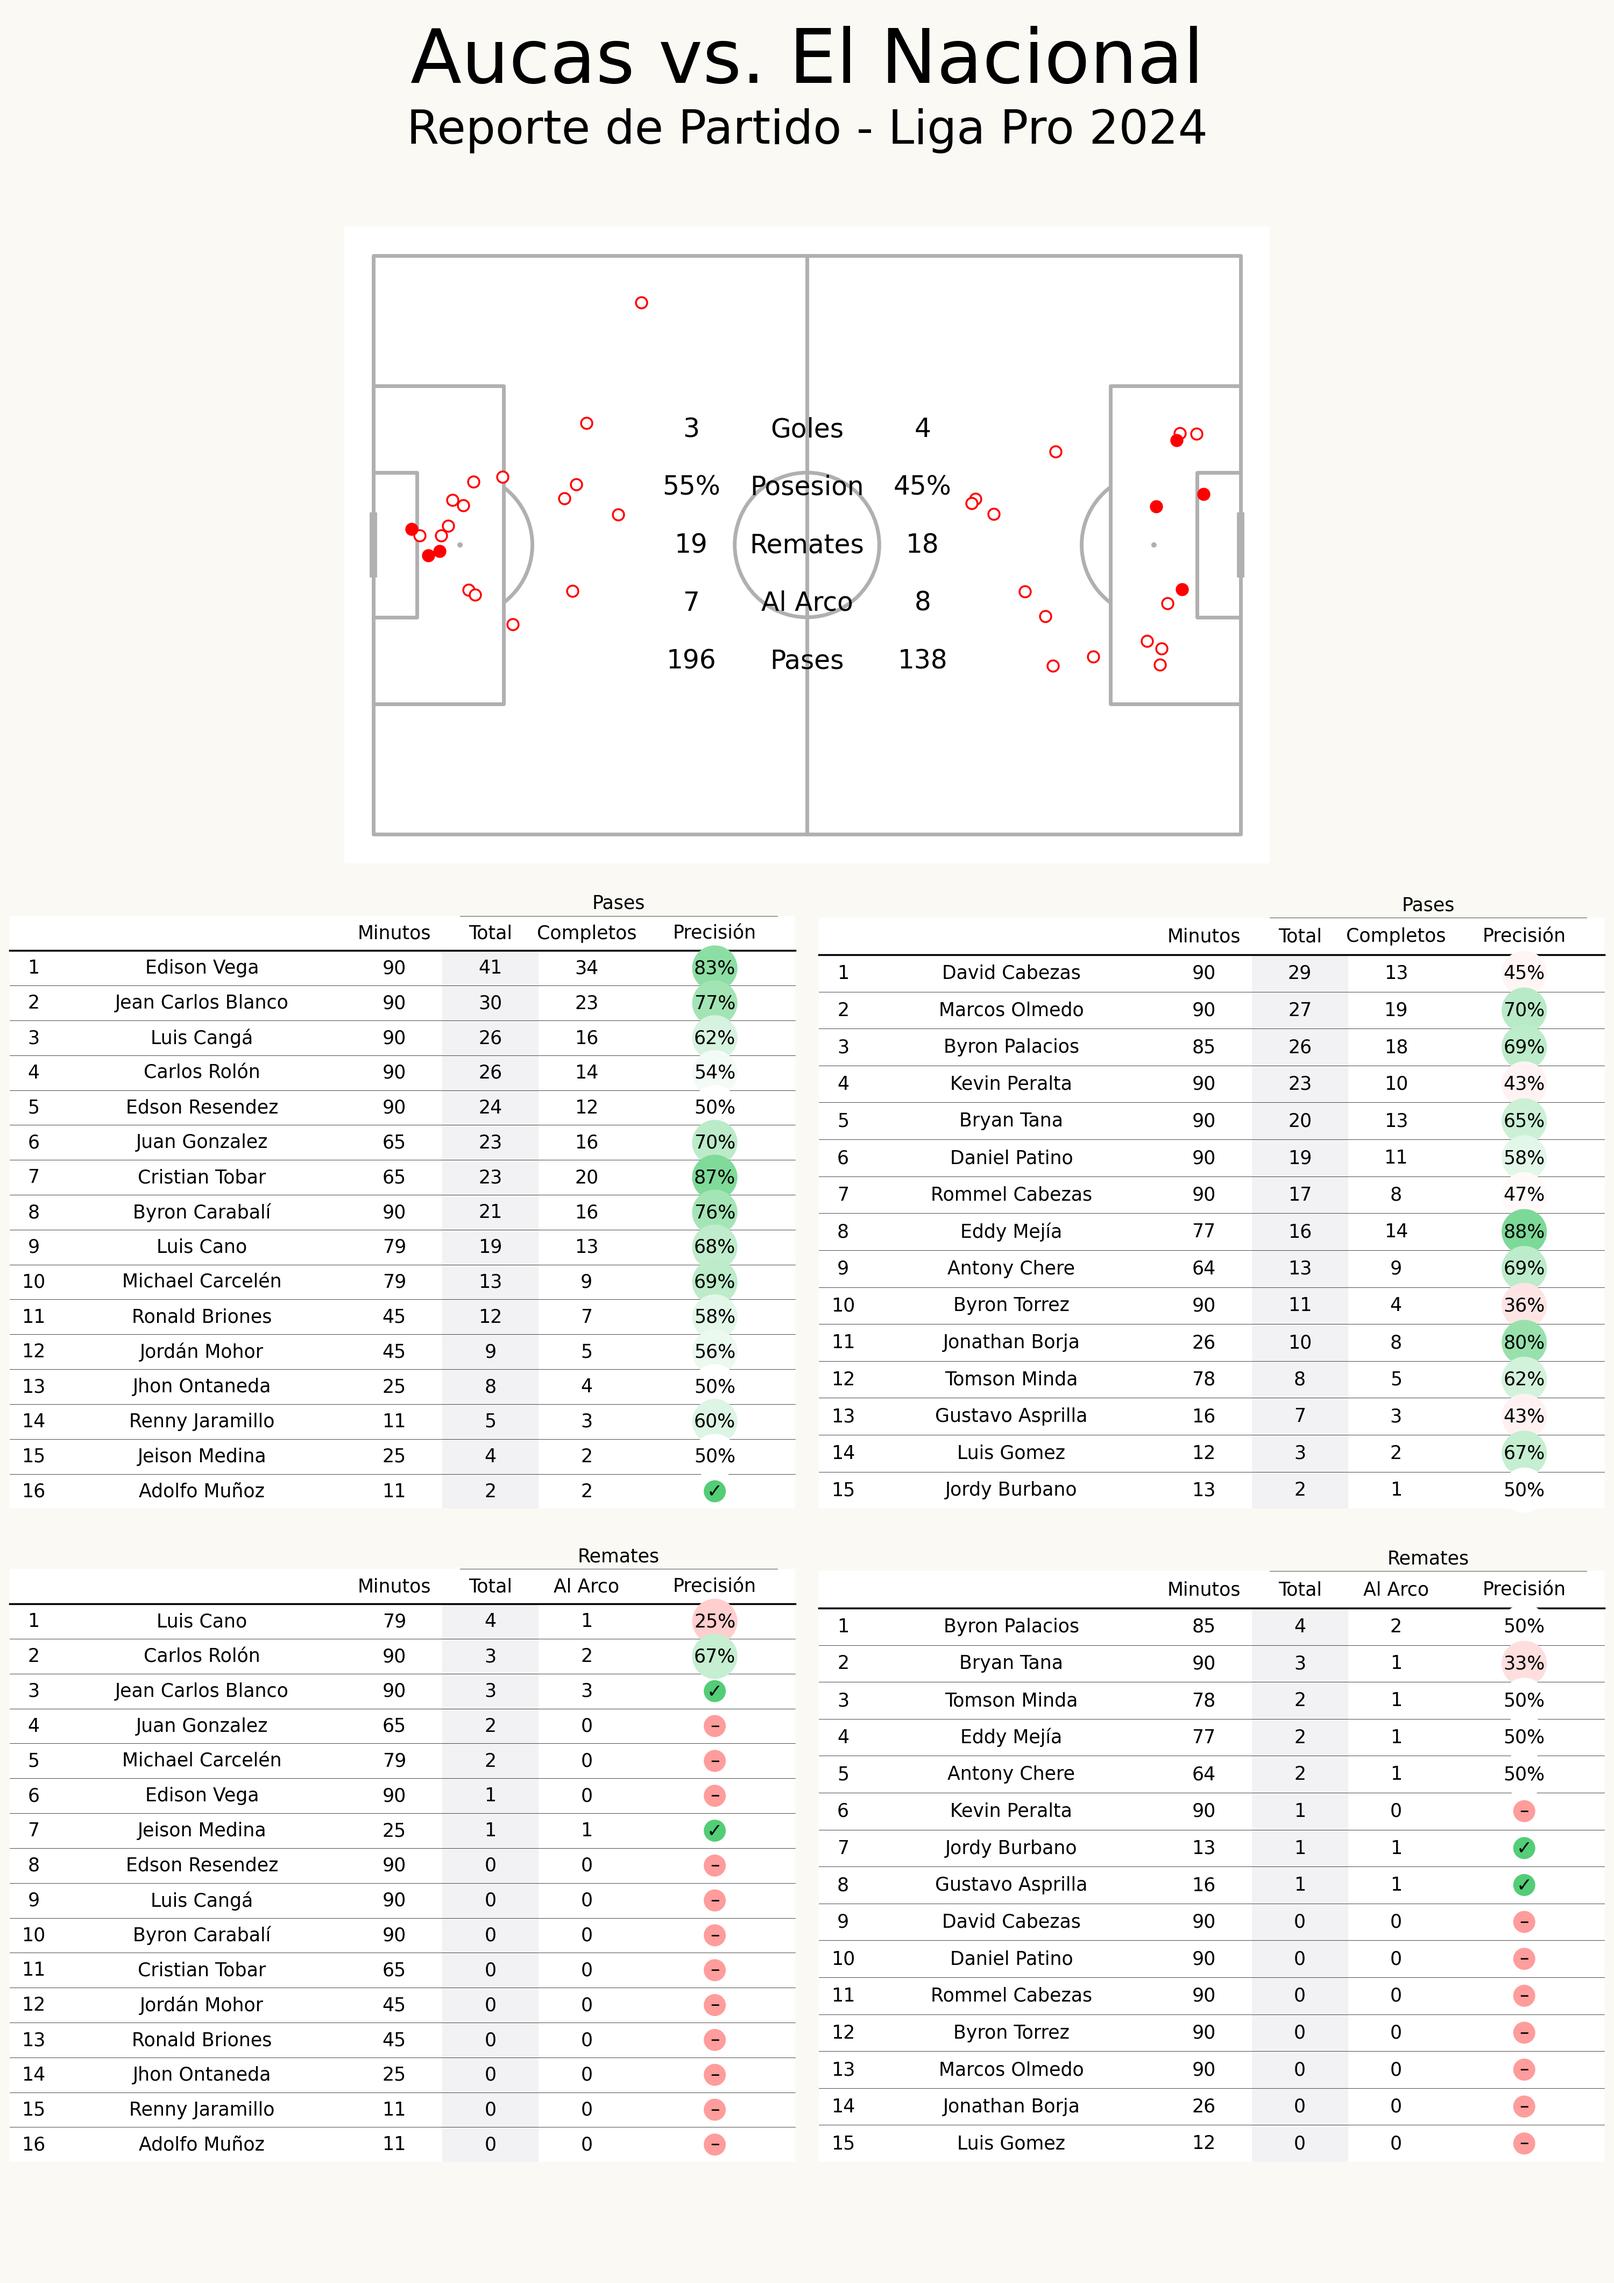
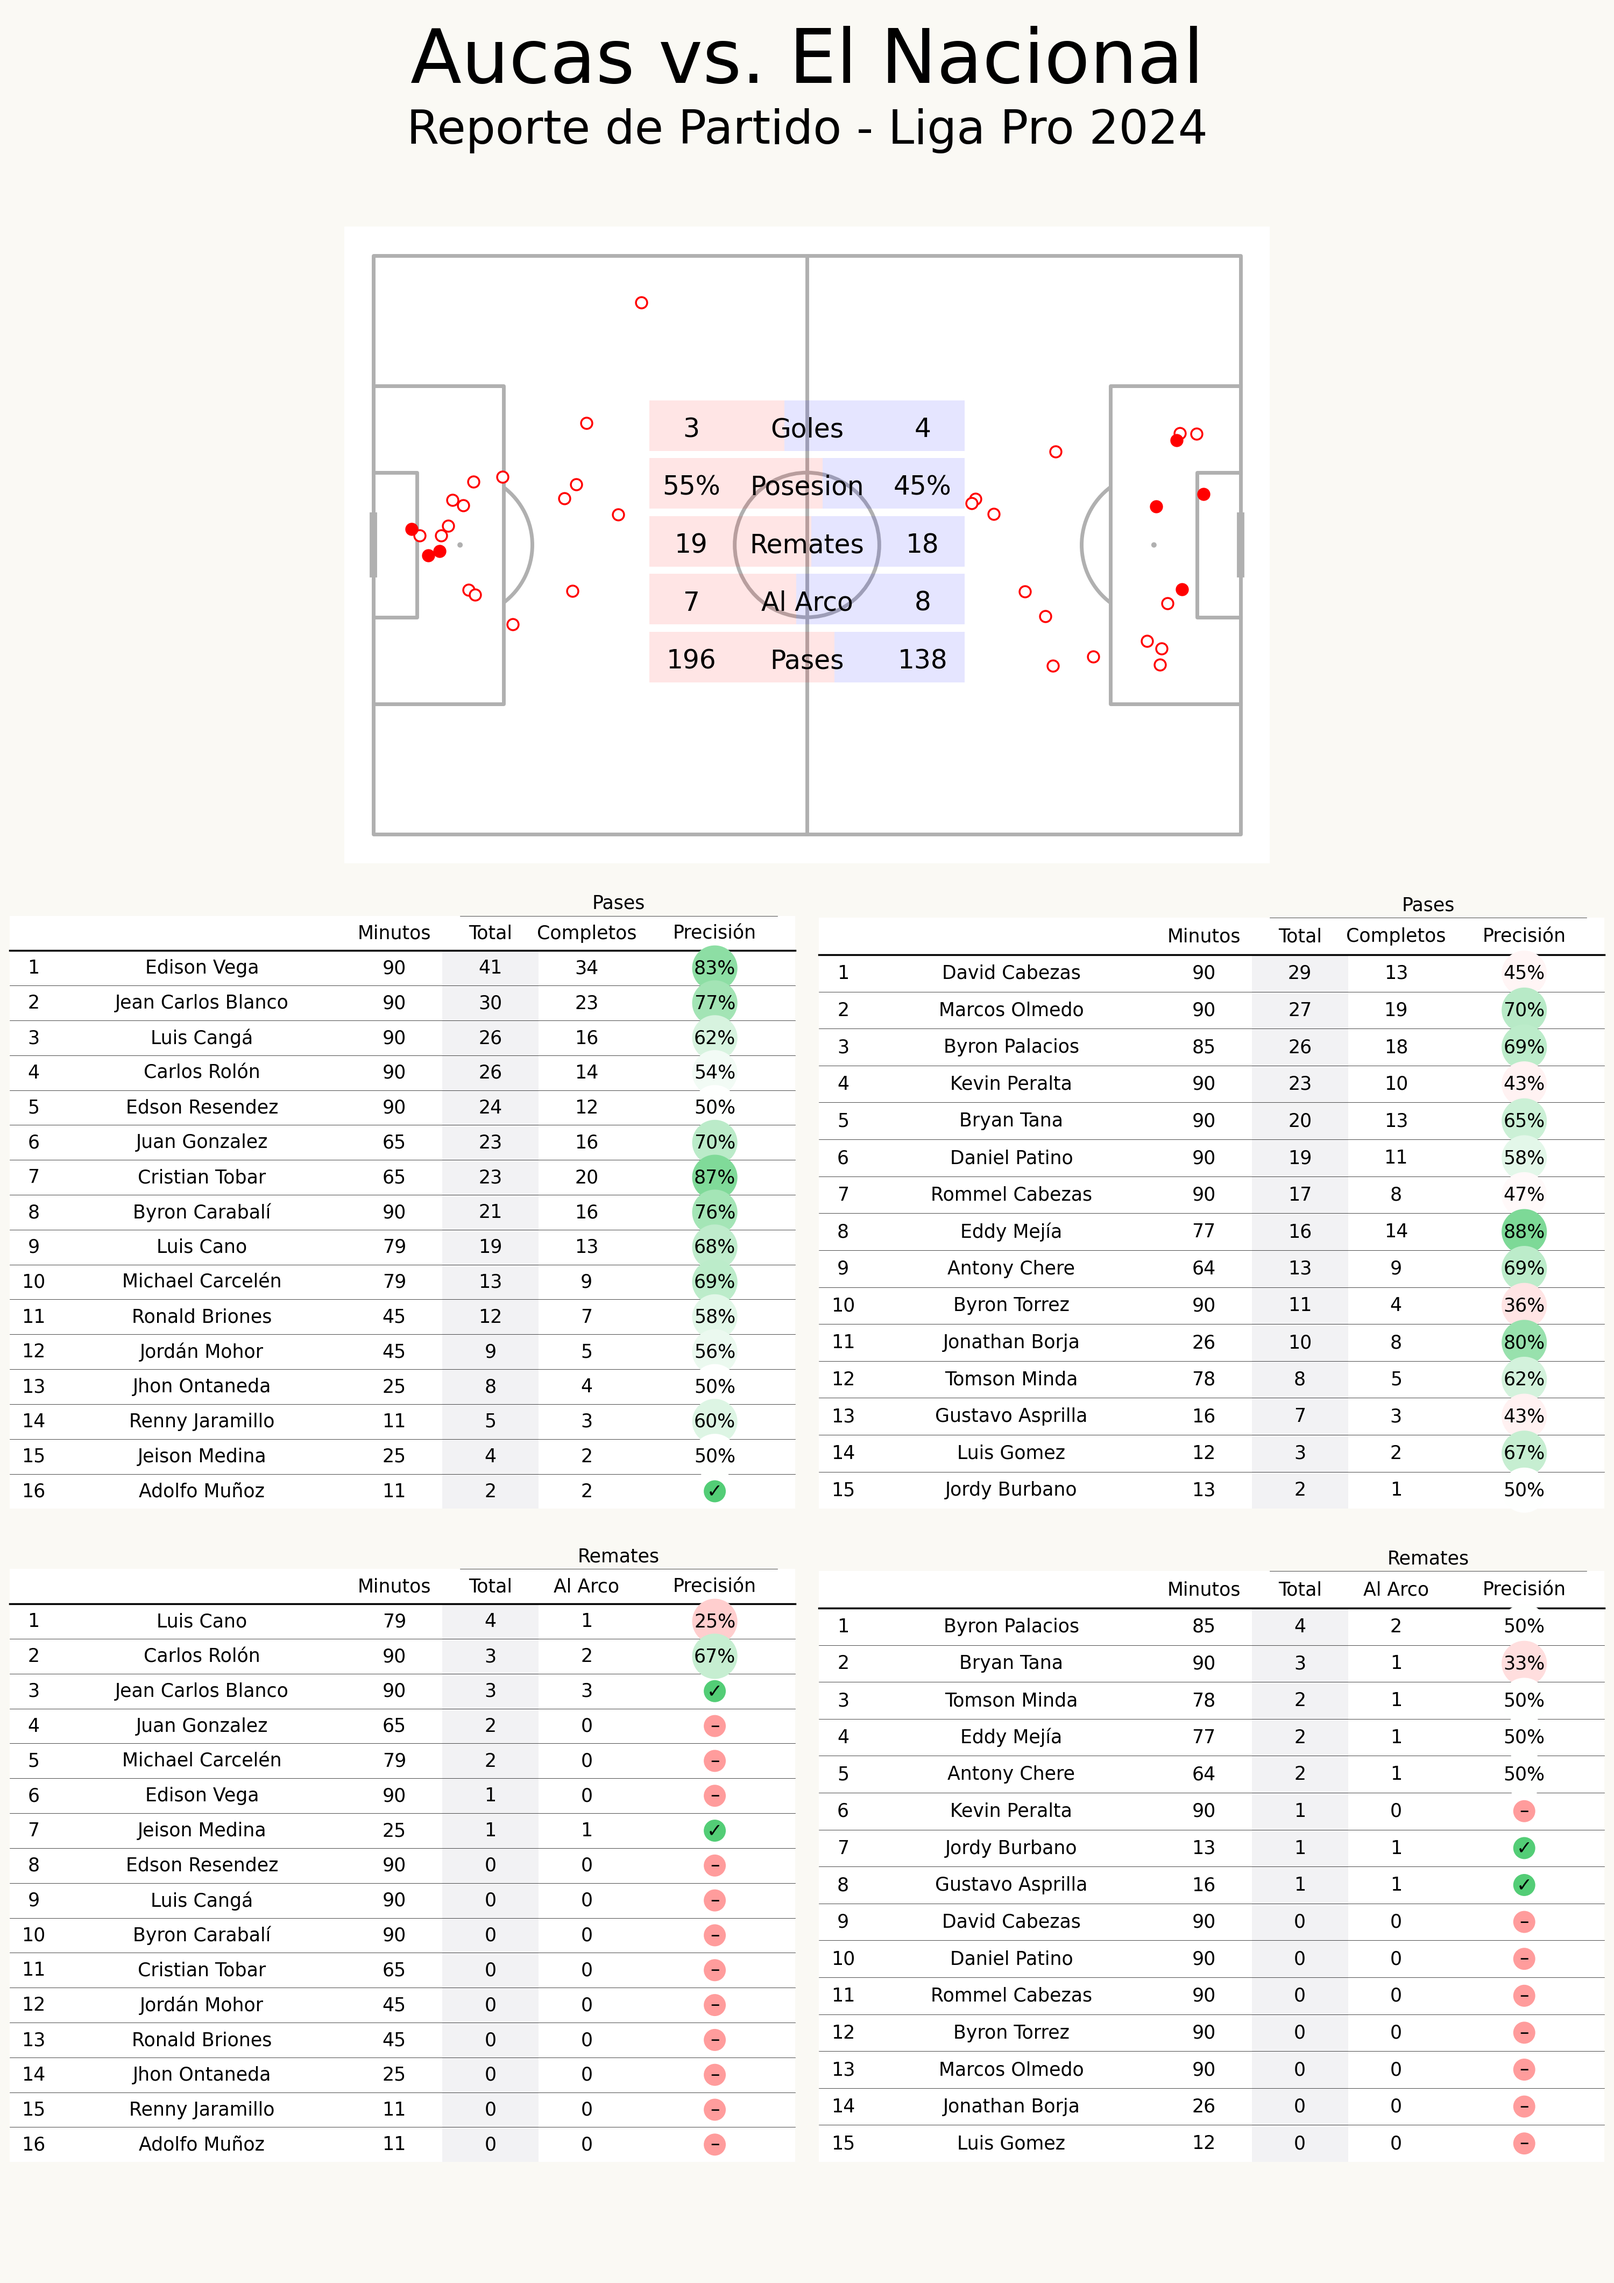
Added color bar behind stats on pitch

Changed region(s): [[0.403, 0.1556, 0.62, 0.3112]]

diff --git a/match_report.py b/match_report.py
@@ -9,6 +9,8 @@ from plottable.formatters import decimal_to_percent
 from plottable.plots import *
 
 import matplotlib.pyplot as plt
+from matplotlib.patches import Rectangle
+
 
 from matplotlib.colors import LinearSegmentedColormap
 
@@ -234,6 +236,41 @@ def add_pitch_stats(ax, home_team: str, away_team: str):
                 size=tags_size,
                 ha='center', va='center'
                 )
+
+        # Add bar
+        stat1_val = df[stat]['home']
+        stat2_val = df[stat]['away']
+        total = stat1_val + stat2_val
+
+        h_padding = tags_size/2.4
+        v_offset = tags_size/3.5
+        bar_spacing = 1
+
+        bar_total_width = data_diff * 2 + (2 * h_padding)
+
+        stat1_width = bar_total_width * (stat1_val/total)
+        stat2_width = bar_total_width * (stat2_val/total)
+
+        left_coordinate = 60 - data_diff - h_padding
+        middle_coordinate = left_coordinate + stat1_width
+
+        rect1 = Rectangle((left_coordinate, border+dist*i-v_offset),
+                          stat1_width,
+                          dist-bar_spacing,
+                          # color='blue',
+                          fc='red',
+                          alpha=0.1,
+                          lw=2)
+
+        rect2 = Rectangle((middle_coordinate, border + dist * i - v_offset),
+                          stat2_width,
+                          dist-bar_spacing,
+                          # color='blue',
+                          fc='blue',
+                          alpha=0.1,
+                          lw=2)
+        ax.add_patch(rect1)
+        ax.add_patch(rect2)
 
 
 def add_pitch_shots(ax_pitch, ax, home_team, away_team):
